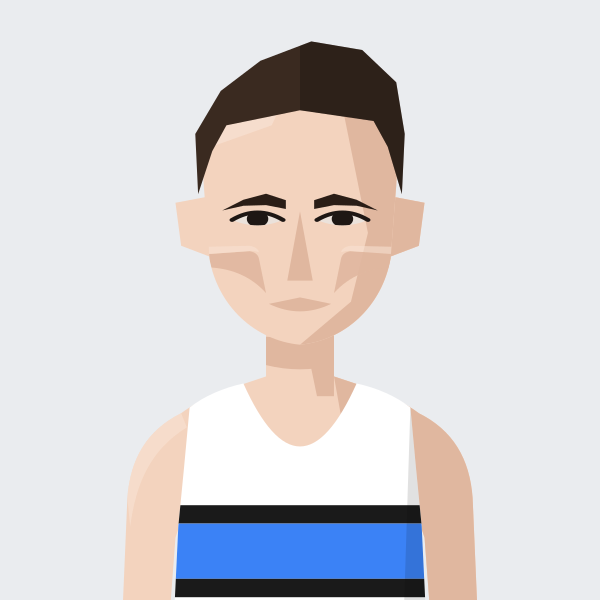
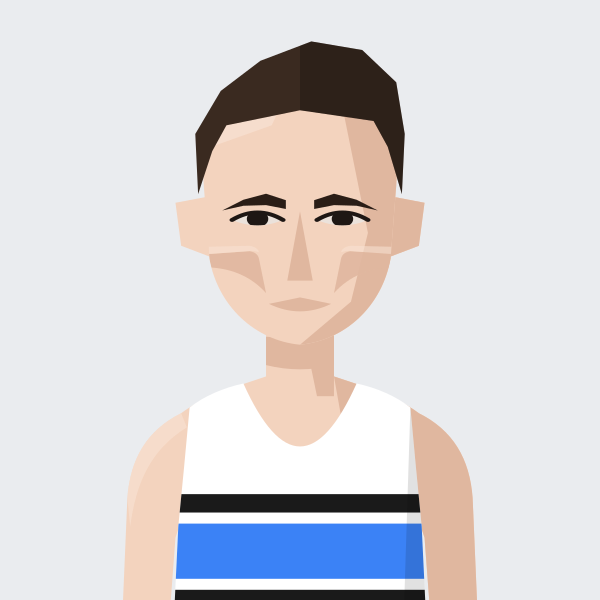
Surrey AC vest: white gaps between the three hoops; John Snowden arched brows
Claude-Session: https://claude.ai/code/session_01MgmDWhFqnSSnP4iBLKXUZC

Changed region(s): [[0.3, 0.81, 0.72, 0.9], [0.27, 0.96, 0.72, 1.0]]

diff --git a/files/index.html b/files/index.html
@@ -887,7 +887,7 @@ const portraitFile=(name,club)=>{const k=normalizeNameForCompare(name||'').repla
 const portraitClubOf=(name,clubs)=>{for(const c of clubs||[]){if(c&&portraitFile(name,c))return c;}return null;}; /* first of these clubs we have a portrait for */
 // Athlete header figure: superstar portrait if we have one, else a grey runner in the club vest, else the plain vest icon
 // Changes whenever any portrait changes (set by tools/build_og.py), so browsers fetch fresh images instead of old cached ones
-const PORTRAIT_V='8bcdb186';const PORTRAIT_WOMEN='abbey-brooke,abbie-bulbulian,adele-prince,aimee-hargreaves,aisling-ahern,alex-brown,alex-gandee,alex-marginean,alex-miller,alexa-parker,alexandra-barbour,alice-braham,alice-bridger-morales,alice-crane,alice-martin,alice-reed,alice-smith,alison-purnell,alison-thomson,amelia-pettitt,amy-clements,andrea-barber,anika-schwarze-chintapatla,anna-garnier,anna-garnier-hw,anna-sharp,annabel-hobday,annabelle-hadlow,anne-hegvold,annmarie-seymour,ava-mcandie,becky-briggs,bethan-goddard,bethanie-murray,bethany-brown,betsy-griffiths,billie-mcclosky,camilla-barden,caoimhe-nic-fhogartaigh,carolyne-baxter,catherine-bryson,catherine-eastham,catherine-kandie,cathy-ansell,charlotte-griffiths,chloe-beckett,chloe-tighe,chrissie-wellington,claire-grima,clara-pettit,clare-elms,clare-pauzers,dillan-quinn,dorchie-cockerell,eilidh-hide,elinor-skinner,eliza-grant,elizabeth-apsley,elizabeth-stavreski,ella-fennelly,ella-king-powrie,ella-may-hards,ella-newton,ellen-weir,ellie-brown,ellie-freeden,eloise-bull,emilie-arnoux,emily-barrett,emily-bradley,emily-lowery,emily-robbins,emma-bond,emma-gordon,emma-howsham,emma-lord,emma-rowland,estle-viljoen,evie-warren,felicity-cole,felicity-harrison,felicity-hayward,fi-maddocks,fiona-de-mauny,florence-wiggins,gabby-collison,gabriel-reynolds,gemma-newport,genevieve-blanch,georgia-curry,georgie-bruinvels,georgie-fenn,georgie-furze,georgie-grgec,gina-galbraith,grace-leyland,grace-richardson,hannah-edwards,hannah-english,heather-statham,heather-statham-cc,helen-alsop,helena-corbin,helena-keenan,holly-nixon,holly-pan,imogen-mackie,imogen-wolsey,iona-cousland,isabel-bradley,isabel-brinsden,isabel-hodder,isabelle-pickett,jennifer-nandi,jennifer-smith,jess-reed,jess-saunders,jess-winfield,jessica-davies,jessica-lowe,jodie-favell,jon-hobbs,josephine-rhodes,julia-bleasdale,julia-wedmore,juliet-hodder,juliette-clark,jurgita-levertaviciute,justine-lynch,karen-fenner,karen-xiang,karina-box,kate-axford,kate-williams,kathy-sharpe,katie-ellen-french,katie-good,katie-snowden,katy-hedgethorne,kitty-shepherd-cross,kristina-popadich,lara-bromilow,lara-mangan,laura-goodson,laura-miles,lauren-major,lea-adamson,lily-newton,lisa-bailey,lisa-thomas,lisa-thomas-hw,lizzie-goldie-scot,louise-cooper,lucy-jones,lucy-macalister,lucy-peters,lydia-blackmore,lydia-gallyer-barnett,maddie-mastrolonardo,maddy-whitman,maeve-kenny,margaret-coogan,martina-conner,mary-james,mary-setyabule,matilde-lomba,megan-gildea,mel-wilkins,mhairi-hall,mimi-corden-lloyd,molly-oconnor,molly-smith,monika-gajek,naomi-lenane,natalie-beadle,natalie-seymour,natasha-lodge,niamh-thompson,nicky-hayes,nicola-cartlidge,nicola-douglas,nikki-haines,nikki-sturzaker,nina-mills,olivia-papaioannou,olivia-stillman,orna-mcginley,pamela-mchutchon,patricia-walker,patrizia-gnoato,penny-oliver,rachel-brown,rebecca-barrow,rebekah-edgar,rosie-powell,ruby-carter,ruby-whyte-wilding,ruby-woolfe,sally-urquhart,sally-young,sally-young-slh,sam-whiting,samantha-munday,sarah-astin,sarah-dewhirst,sarah-grover,sarah-hanley,sarah-holt,sarah-murphy,sarah-palmer,sarah-palmer-ran,sarah-riceman,sarah-young,saron-haileselase,serena-carter,sophie-cowper,sophie-harris,sophie-hicks,sophie-tooley,stacey-ward,steph-hewitt,steph-mccall,steph-mccall-cc,steph-mccall-slh,steph-mitchell,suzanne-swaine,suze-spalding,suzie-harvey,suzy-whatmough,syreeta-stracey,teresa-murphy,tilly-heaton,tilly-heaton-bel,tish-jones,vic-cartwright,vicky-clarke,vicky-edwards,victoria-barthelmess,victoria-buck,vikki-filsell,zoe-doyle,zoe-macdonald,zuzana-nemeckova';const PORTRAIT_MEN='aaron-wilson,abdulla-elsadig,adam-leane,adrian-major,adrien-royer,alan-black,alan-mead,alex-brecker,alex-bruce-littlewood,alex-gutteridge,alex-harris,alex-howard,alex-janiaud,alex-lee,alex-lennon,alex-mills,alex-milne,alex-morales,alex-robinson,alex-yee,alexander-marks,amittai-ben-israel,andrew-cumine,andrew-green,andrew-penney,andrew-perfect,andrew-simms,andrew-warburton,andrius-jaksevicius,andy-coley-maud,andy-coley-maud-cc,andy-fyfe,andy-north,andy-paton,andy-weir,angus-butler,angus-lamb,anisse-ismaili,arlo-ludewick,arne-dumez,arthur-peel,ashley-goncalves,barnaby-day,barry-collins,barry-sawyer,ben-clarke,ben-coughlan,ben-harding,ben-hurley,ben-ireland,ben-millar,ben-paviour,ben-pearce,ben-racle,ben-revill,ben-reynolds,ben-scott,ben-toomer,benedict-whitby,benjamin-hilson,bernie-ford,bill-kerr,bill-weller,bill-weller-wal,bob-harrison,bob-holt,bob-lunnon,bob-rayman,bob-smith,bradley-courtney-pinn,brandon-dewar,brian-gorman,brian-wilder,caleb-hathaway,callum-stewart,cameron-dockerill,cameron-reilly,carl-delaney,charles-herrington,charlie-dabbs,charlie-dickinson,charlie-eastaugh,charlie-manning,charlie-pickett,charlie-rogers,charlie-sandison,charlie-walker,charlie-wyllie,che-compton,chris-busaileh,chris-busaileh-hhh,chris-greenwood,chris-keavey,chris-moss,chris-steer,chris-threadgold,chris-warren,christian-lee,christopher-parker,clive-gilby,clive-shippen,colin-high,colin-pearson,conall-mcnally,conall-whelan,craig-ruddy,dame-dibaba,dan-cliffe,dan-pettitt,daniel-shaw,daniel-wolff,darren-mead,dave-beard,dave-beaver,dave-clarke,dave-glassborow,dave-hill,dave-holt,dave-taylor,david-anderson,david-bowers,david-grima,david-north,david-ogden,david-symons,david-walsh,david-williams,deron-fagan,dick-piotrowski,dimos-evangelidis,dom-nolan,dominic-kiralyfi,don-anderson,don-faircloth,don-maclean,doug-maughan,duncan-rimmer,dylan-evans,dylan-mitchard,ed-brewer,ed-catmur,ed-gibson,ed-mallett,ed-prickett,eddie-herridge,eddie-jodrell,eddie-rolls,edward-chuck,eoin-brady,eoin-molloy,ethan-mccolgan,falilou-kebe,findlay-dyer,finn-johnson,fintan-pearce,frank-tickner,frank-ward,fred-paget,fred-slemeck,fred-stebbings,freddie-hessian,garret-lee,gary-ribbons,gary-ribbons-ee,gary-staines,gary-staines-bel,gavin-eccles,geoff-biscoe,geoff-jerwood,geoff-north,george-cotton,george-gathercole,george-jackson,george-loxton,george-mallett,george-ogden,gerry-adams,gerry-north,glen-keegan,gordon-pearce,graham-macky,grenville-tuck,harrison-hayman,harry-guttridge,hector-revill,henry-hart,henry-silverstein,hugo-hewitt,huw-lobb,ian-acreman,ian-crowe-wright,ian-ellwood,ian-harkness,indy-barnes,isaac-lutaya,isaac-parker,jack-brotchie,jack-dickson,jack-dormer,jack-hampshire,jack-harrison,jack-hobden,jack-kavanagh,jack-millar,jack-ramm,jack-woods,jacob-brockmann,jake-simmonds,james-bartram,james-blackwood,james-bowler,james-estall,james-ewing,james-fox,james-hancock,james-harvey,james-hoad,james-kelly,james-mcmullan,james-murray,james-nutt,james-preston,james-roberts,james-stockings,james-ward,james-wootton,jamie-crowe,jamie-parkinson,jared-martin,jean-paul-wright,jeff-cunningham,jeremy-dempsey,jermaine-mays,jerry-watson,jim-allchin,jim-rimmer,joachim-wolf,joe-english,joe-hartley,john-baker,john-bicourt,john-bromley,john-davies,john-dear,john-foss,john-foxall,john-gilbert,john-gladwin,john-hutchins,john-kendall,john-kimaiyo,john-lee,john-lethbridge,john-mather,john-moore,john-roberts,john-sanderson,john-snowden,john-stow,john-sullivan,john-thresher,jon-pepper,jon-pepper-slh,jon-phillips,jon-solly,jonathan-cocker,jonathan-collier,jonathan-cornish,jonathan-ratcliffe,jonathan-tipper,jonny-neville,jonny-scott,jordan-weaver,josh-mitchell,josh-snow,josh-trigwell,jules-gevers,junior-galley,justin-chaston,justin-reid,kassa-tadesse,keith-newton,ken-penney,ken-penney-cro,kevin-nash,kevin-quinn,kevin-sturman,kieran-barnes,kieran-white,knut-hegvold,knut-hegvold-bel,larry-ryan,lawrence-avery,lee-lintern,les-presland,les-presland-sur,lewis-lloyd,liam-burthem,lionel-mann,lloyd-kempson,luke-caldwell,mack-downie,malachi-byansi,marcello-bizio,marcelo-fortes,marco-mazzotta,mark-anderson,mark-miles,mark-sinclair,mark-tennyson,mark-waller,martin-dent,martin-duff,martin-lake,martin-lewington,martin-shore,mathew-speed,matt-chaston,matt-jones,matt-wood,matt-yates,matthew-edgar,matthew-houchell,matthew-thomas,matthew-varley,max-bloor,max-heyden,max-milarvie,max-nicholls,michael-baker,michael-mccarthy,mick-gowan,mick-woods,mike-beevor,mike-boyle,mike-cummings,mike-farmery,mike-fuller,mike-hayes,mike-kortenray,mike-nouch,mohammed-ismail,monty-hudson,morgan-roberts,nathan-visick,neil-chisholm,neil-phillips,neil-speaight,neil-wilson,nic-lukies,nick-acfield,nick-altmann,nick-bester,nick-bester-hhh,nick-buckle,nick-bundle,nick-goolab,nick-lightfoot,nick-morris,nick-torry,noah-fernandez,norman-stairs,oli-carrington,oliver-carrington,oliver-fox,oliver-reynolds,oliver-young,ollie-foote,ollie-garrod,olly-buck,owen-hind,paddy-roddy,pancho-panchev,paskar-owor,pat-newell,patrick-mcdougall,paul-calver,paul-cheetham,paul-evans,paul-freary,paul-magner,paul-pollock,paul-sanderson,paul-sanderson-wok,pete-carton,pete-gardner,peter-clarke,peter-giles,peter-giles-thh,peter-lighting,phil-carstairs,phil-sanders,phil-sesemann,phil-swinburn,phil-wicks,phil-woodford-smith,raj-paranandi,ralph-street,ranjit-bhatia,ray-foley,reece-edwards,rhys-boorman,rian-mccawley,richard-ashe,richard-giles,richard-henderson,richard-langley,richard-mcdowell,richard-ollington,richard-partridge,richard-sun,richard-ward,rob-armstrong,rob-kelly,rob-tuer,robert-elphick,robert-laing,robert-norville,robert-peacock,robert-sesemann,robin-boon,robin-hudson,roger-alsop,roger-alsop-bel,roger-hackney,ron-clark,ron-linstead,ronan-tanguy,rory-mcmahon,rory-orsborn,ross-braden,ross-christie,rowan-board,rowan-crichton,russell-dessaix-chin,ryan-hickey,ryan-mccallister,sam-bramwell,sam-charlton,sam-gebreselassie,sam-haughian,sam-peters,sam-sommerville,sam-tyas,samuel-dames,samuel-wilcock,sean-cordon,sebastian-anthony,simon-baines,simon-coombes,simon-coppard,simon-fairbrother,simon-holmes,simon-rayner,simon-rayner-hw,simon-wade,simon-wade-hhh,simon-waterhouse,simon-williams,simon-wurr,sonny-nicoll,spencer-barden,stephen-mcleod,stephen-sharp,steve-badgery,steve-badgery-mit,steve-gardner,steve-jones,steve-smythe,steve-smythe-hhh,stuart-beaney,stuart-major,stuart-major-thh,stuart-mccallum,stuart-paton,terry-booth,thomas-dugre,thomas-gandee,thomas-gardner,thomas-renshaw,tim-alexander,tim-eglen,tim-lawrence,tim-watson,toby-cooke,toby-fletcher,tom-austin,tom-cheetham,tom-conlon,tom-davies,tom-gifford,tom-higgs,tom-jervis,tom-lole,tom-south,tom-thornley,tommy-taylor,tony-binda,tony-fairclough,tony-harran,trevor-hart,valdis-pauzers,valentin-rigori,vic-maughan,wayne-oxborough,will-cockerell,will-lewis,will-marshall,will-scott,will-stockley,william-gardner,yacin-yusuf,zach-nolan';
+const PORTRAIT_V='8a8cc05c';const PORTRAIT_WOMEN='abbey-brooke,abbie-bulbulian,adele-prince,aimee-hargreaves,aisling-ahern,alex-brown,alex-gandee,alex-marginean,alex-miller,alexa-parker,alexandra-barbour,alice-braham,alice-bridger-morales,alice-crane,alice-martin,alice-reed,alice-smith,alison-purnell,alison-thomson,amelia-pettitt,amy-clements,andrea-barber,anika-schwarze-chintapatla,anna-garnier,anna-garnier-hw,anna-sharp,annabel-hobday,annabelle-hadlow,anne-hegvold,annmarie-seymour,ava-mcandie,becky-briggs,bethan-goddard,bethanie-murray,bethany-brown,betsy-griffiths,billie-mcclosky,camilla-barden,caoimhe-nic-fhogartaigh,carolyne-baxter,catherine-bryson,catherine-eastham,catherine-kandie,cathy-ansell,charlotte-griffiths,chloe-beckett,chloe-tighe,chrissie-wellington,claire-grima,clara-pettit,clare-elms,clare-pauzers,dillan-quinn,dorchie-cockerell,eilidh-hide,elinor-skinner,eliza-grant,elizabeth-apsley,elizabeth-stavreski,ella-fennelly,ella-king-powrie,ella-may-hards,ella-newton,ellen-weir,ellie-brown,ellie-freeden,eloise-bull,emilie-arnoux,emily-barrett,emily-bradley,emily-lowery,emily-robbins,emma-bond,emma-gordon,emma-howsham,emma-lord,emma-rowland,estle-viljoen,evie-warren,felicity-cole,felicity-harrison,felicity-hayward,fi-maddocks,fiona-de-mauny,florence-wiggins,gabby-collison,gabriel-reynolds,gemma-newport,genevieve-blanch,georgia-curry,georgie-bruinvels,georgie-fenn,georgie-furze,georgie-grgec,gina-galbraith,grace-leyland,grace-richardson,hannah-edwards,hannah-english,heather-statham,heather-statham-cc,helen-alsop,helena-corbin,helena-keenan,holly-nixon,holly-pan,imogen-mackie,imogen-wolsey,iona-cousland,isabel-bradley,isabel-brinsden,isabel-hodder,isabelle-pickett,jennifer-nandi,jennifer-smith,jess-reed,jess-saunders,jess-winfield,jessica-davies,jessica-lowe,jodie-favell,jon-hobbs,josephine-rhodes,julia-bleasdale,julia-wedmore,juliet-hodder,juliette-clark,jurgita-levertaviciute,justine-lynch,karen-fenner,karen-xiang,karina-box,kate-axford,kate-williams,kathy-sharpe,katie-ellen-french,katie-good,katie-snowden,katy-hedgethorne,kitty-shepherd-cross,kristina-popadich,lara-bromilow,lara-mangan,laura-goodson,laura-miles,lauren-major,lea-adamson,lily-newton,lisa-bailey,lisa-thomas,lisa-thomas-hw,lizzie-goldie-scot,louise-cooper,lucy-jones,lucy-macalister,lucy-peters,lydia-blackmore,lydia-gallyer-barnett,maddie-mastrolonardo,maddy-whitman,maeve-kenny,margaret-coogan,martina-conner,mary-james,mary-setyabule,matilde-lomba,megan-gildea,mel-wilkins,mhairi-hall,mimi-corden-lloyd,molly-oconnor,molly-smith,monika-gajek,naomi-lenane,natalie-beadle,natalie-seymour,natasha-lodge,niamh-thompson,nicky-hayes,nicola-cartlidge,nicola-douglas,nikki-haines,nikki-sturzaker,nina-mills,olivia-papaioannou,olivia-stillman,orna-mcginley,pamela-mchutchon,patricia-walker,patrizia-gnoato,penny-oliver,rachel-brown,rebecca-barrow,rebekah-edgar,rosie-powell,ruby-carter,ruby-whyte-wilding,ruby-woolfe,sally-urquhart,sally-young,sally-young-slh,sam-whiting,samantha-munday,sarah-astin,sarah-dewhirst,sarah-grover,sarah-hanley,sarah-holt,sarah-murphy,sarah-palmer,sarah-palmer-ran,sarah-riceman,sarah-young,saron-haileselase,serena-carter,sophie-cowper,sophie-harris,sophie-hicks,sophie-tooley,stacey-ward,steph-hewitt,steph-mccall,steph-mccall-cc,steph-mccall-slh,steph-mitchell,suzanne-swaine,suze-spalding,suzie-harvey,suzy-whatmough,syreeta-stracey,teresa-murphy,tilly-heaton,tilly-heaton-bel,tish-jones,vic-cartwright,vicky-clarke,vicky-edwards,victoria-barthelmess,victoria-buck,vikki-filsell,zoe-doyle,zoe-macdonald,zuzana-nemeckova';const PORTRAIT_MEN='aaron-wilson,abdulla-elsadig,adam-leane,adrian-major,adrien-royer,alan-black,alan-mead,alex-brecker,alex-bruce-littlewood,alex-gutteridge,alex-harris,alex-howard,alex-janiaud,alex-lee,alex-lennon,alex-mills,alex-milne,alex-morales,alex-robinson,alex-yee,alexander-marks,amittai-ben-israel,andrew-cumine,andrew-green,andrew-penney,andrew-perfect,andrew-simms,andrew-warburton,andrius-jaksevicius,andy-coley-maud,andy-coley-maud-cc,andy-fyfe,andy-north,andy-paton,andy-weir,angus-butler,angus-lamb,anisse-ismaili,arlo-ludewick,arne-dumez,arthur-peel,ashley-goncalves,barnaby-day,barry-collins,barry-sawyer,ben-clarke,ben-coughlan,ben-harding,ben-hurley,ben-ireland,ben-millar,ben-paviour,ben-pearce,ben-racle,ben-revill,ben-reynolds,ben-scott,ben-toomer,benedict-whitby,benjamin-hilson,bernie-ford,bill-kerr,bill-weller,bill-weller-wal,bob-harrison,bob-holt,bob-lunnon,bob-rayman,bob-smith,bradley-courtney-pinn,brandon-dewar,brian-gorman,brian-wilder,caleb-hathaway,callum-stewart,cameron-dockerill,cameron-reilly,carl-delaney,charles-herrington,charlie-dabbs,charlie-dickinson,charlie-eastaugh,charlie-manning,charlie-pickett,charlie-rogers,charlie-sandison,charlie-walker,charlie-wyllie,che-compton,chris-busaileh,chris-busaileh-hhh,chris-greenwood,chris-keavey,chris-moss,chris-steer,chris-threadgold,chris-warren,christian-lee,christopher-parker,clive-gilby,clive-shippen,colin-high,colin-pearson,conall-mcnally,conall-whelan,craig-ruddy,dame-dibaba,dan-cliffe,dan-pettitt,daniel-shaw,daniel-wolff,darren-mead,dave-beard,dave-beaver,dave-clarke,dave-glassborow,dave-hill,dave-holt,dave-taylor,david-anderson,david-bowers,david-grima,david-north,david-ogden,david-symons,david-walsh,david-williams,deron-fagan,dick-piotrowski,dimos-evangelidis,dom-nolan,dominic-kiralyfi,don-anderson,don-faircloth,don-maclean,doug-maughan,duncan-rimmer,dylan-evans,dylan-mitchard,ed-brewer,ed-catmur,ed-gibson,ed-mallett,ed-prickett,eddie-herridge,eddie-jodrell,eddie-rolls,edward-chuck,eoin-brady,eoin-molloy,ethan-mccolgan,falilou-kebe,findlay-dyer,finn-johnson,fintan-pearce,frank-tickner,frank-ward,fred-paget,fred-slemeck,fred-stebbings,freddie-hessian,garret-lee,gary-ribbons,gary-ribbons-ee,gary-staines,gary-staines-bel,gavin-eccles,geoff-biscoe,geoff-jerwood,geoff-north,george-cotton,george-gathercole,george-jackson,george-loxton,george-mallett,george-ogden,gerry-adams,gerry-north,glen-keegan,gordon-pearce,graham-macky,grenville-tuck,harrison-hayman,harry-guttridge,hector-revill,henry-hart,henry-silverstein,hugo-hewitt,huw-lobb,ian-acreman,ian-crowe-wright,ian-ellwood,ian-harkness,indy-barnes,isaac-lutaya,isaac-parker,jack-brotchie,jack-dickson,jack-dormer,jack-hampshire,jack-harrison,jack-hobden,jack-kavanagh,jack-millar,jack-ramm,jack-woods,jacob-brockmann,jake-simmonds,james-bartram,james-blackwood,james-bowler,james-estall,james-ewing,james-fox,james-hancock,james-harvey,james-hoad,james-kelly,james-mcmullan,james-murray,james-nutt,james-preston,james-roberts,james-stockings,james-ward,james-wootton,jamie-crowe,jamie-parkinson,jared-martin,jean-paul-wright,jeff-cunningham,jeremy-dempsey,jermaine-mays,jerry-watson,jim-allchin,jim-rimmer,joachim-wolf,joe-english,joe-hartley,john-baker,john-bicourt,john-bromley,john-davies,john-dear,john-foss,john-foxall,john-gilbert,john-gladwin,john-hutchins,john-kendall,john-kimaiyo,john-lee,john-lethbridge,john-mather,john-moore,john-roberts,john-sanderson,john-snowden,john-stow,john-sullivan,john-thresher,jon-pepper,jon-pepper-slh,jon-phillips,jon-solly,jonathan-cocker,jonathan-collier,jonathan-cornish,jonathan-ratcliffe,jonathan-tipper,jonny-neville,jonny-scott,jordan-weaver,josh-mitchell,josh-snow,josh-trigwell,jules-gevers,junior-galley,justin-chaston,justin-reid,kassa-tadesse,keith-newton,ken-penney,ken-penney-cro,kevin-nash,kevin-quinn,kevin-sturman,kieran-barnes,kieran-white,knut-hegvold,knut-hegvold-bel,larry-ryan,lawrence-avery,lee-lintern,les-presland,les-presland-sur,lewis-lloyd,liam-burthem,lionel-mann,lloyd-kempson,luke-caldwell,mack-downie,malachi-byansi,marcello-bizio,marcelo-fortes,marco-mazzotta,mark-anderson,mark-miles,mark-sinclair,mark-tennyson,mark-waller,martin-dent,martin-duff,martin-lake,martin-lewington,martin-shore,mathew-speed,matt-chaston,matt-jones,matt-wood,matt-yates,matthew-edgar,matthew-houchell,matthew-thomas,matthew-varley,max-bloor,max-heyden,max-milarvie,max-nicholls,michael-baker,michael-mccarthy,mick-gowan,mick-woods,mike-beevor,mike-boyle,mike-cummings,mike-farmery,mike-fuller,mike-hayes,mike-kortenray,mike-nouch,mohammed-ismail,monty-hudson,morgan-roberts,nathan-visick,neil-chisholm,neil-phillips,neil-speaight,neil-wilson,nic-lukies,nick-acfield,nick-altmann,nick-bester,nick-bester-hhh,nick-buckle,nick-bundle,nick-goolab,nick-lightfoot,nick-morris,nick-torry,noah-fernandez,norman-stairs,oli-carrington,oliver-carrington,oliver-fox,oliver-reynolds,oliver-young,ollie-foote,ollie-garrod,olly-buck,owen-hind,paddy-roddy,pancho-panchev,paskar-owor,pat-newell,patrick-mcdougall,paul-calver,paul-cheetham,paul-evans,paul-freary,paul-magner,paul-pollock,paul-sanderson,paul-sanderson-wok,pete-carton,pete-gardner,peter-clarke,peter-giles,peter-giles-thh,peter-lighting,phil-carstairs,phil-sanders,phil-sesemann,phil-swinburn,phil-wicks,phil-woodford-smith,raj-paranandi,ralph-street,ranjit-bhatia,ray-foley,reece-edwards,rhys-boorman,rian-mccawley,richard-ashe,richard-giles,richard-henderson,richard-langley,richard-mcdowell,richard-ollington,richard-partridge,richard-sun,richard-ward,rob-armstrong,rob-kelly,rob-tuer,robert-elphick,robert-laing,robert-norville,robert-peacock,robert-sesemann,robin-boon,robin-hudson,roger-alsop,roger-alsop-bel,roger-hackney,ron-clark,ron-linstead,ronan-tanguy,rory-mcmahon,rory-orsborn,ross-braden,ross-christie,rowan-board,rowan-crichton,russell-dessaix-chin,ryan-hickey,ryan-mccallister,sam-bramwell,sam-charlton,sam-gebreselassie,sam-haughian,sam-peters,sam-sommerville,sam-tyas,samuel-dames,samuel-wilcock,sean-cordon,sebastian-anthony,simon-baines,simon-coombes,simon-coppard,simon-fairbrother,simon-holmes,simon-rayner,simon-rayner-hw,simon-wade,simon-wade-hhh,simon-waterhouse,simon-williams,simon-wurr,sonny-nicoll,spencer-barden,stephen-mcleod,stephen-sharp,steve-badgery,steve-badgery-mit,steve-gardner,steve-jones,steve-smythe,steve-smythe-hhh,stuart-beaney,stuart-major,stuart-major-thh,stuart-mccallum,stuart-paton,terry-booth,thomas-dugre,thomas-gandee,thomas-gardner,thomas-renshaw,tim-alexander,tim-eglen,tim-lawrence,tim-watson,toby-cooke,toby-fletcher,tom-austin,tom-cheetham,tom-conlon,tom-davies,tom-gifford,tom-higgs,tom-jervis,tom-lole,tom-south,tom-thornley,tommy-taylor,tony-binda,tony-fairclough,tony-harran,trevor-hart,valdis-pauzers,valentin-rigori,vic-maughan,wayne-oxborough,will-cockerell,will-lewis,will-marshall,will-scott,will-stockley,william-gardner,yacin-yusuf,zach-nolan';
 // Runners whose dog pops up on their own profile page (a -dog.svg version of their portrait)
 const PROFILE_DOGS=new Set(['john-sanderson','penny-oliver','james-hancock','angus-butler']);
 const AthletePortrait=({name,club,w,fill,onClick,blink})=>{const[failed,setFailed]=useState(false);const file=portraitFile(name,club);const src0=file?`/portraits/athletes/${file}.svg?v=${PORTRAIT_V}`:PORTRAIT_CLUBS.has(club)?`/portraits/clubs/${club.replace(/\//g,'').replace(/&/g,'and')}.svg?v=${PORTRAIT_V}`:null;const blinkSrc=useBlinkSrc(file?(PROFILE_DOGS.has(file)?`/portraits/athletes/${file}-dog.svg?v=${PORTRAIT_V}`:src0):null,!!blink);const src=blinkSrc||src0;if(!src||failed)return<div onClick={onClick} className={onClick?'cursor-pointer':''}><ClubShield club={club} size={w}/></div>;const h=Math.round(w*148/126),ih=Math.round(w*1.4);if(fill)return<div onClick={onClick} className="cursor-pointer" style={{alignSelf:'stretch',minHeight:h,aspectRatio:'126 / 148',flexShrink:0,position:'relative',borderRadius:4,overflow:'hidden'}}><img src={src} alt={file?`Portrait of ${name.replace(/\s*\([^)]*\)$/,'')}`:`Runner in ${CLUBS[club]?.name||club} vest`} style={{position:'absolute',top:0,left:0,display:'block',width:'100%',height:'auto'}} onError={()=>setFailed(true)}/></div>;return<div style={{width:w,height:h,borderRadius:4,overflow:'hidden',flexShrink:0}}><img src={src} alt={file?`Portrait of ${name.replace(/\s*\([^)]*\)$/,'')}`:`Runner in ${CLUBS[club]?.name||club} vest`} width={w} height={ih} style={{display:'block',width:w,height:ih}} onError={()=>setFailed(true)}/></div>;};

diff --git a/tools/gen_portraits.py b/tools/gen_portraits.py
@@ -48,7 +48,7 @@ _MORE = {
     "BOX": ("#f4c430", _sides("#dc2626")),
     "BOH": ("#87CEEB", _sides("#dc2626")),
     "AFD": ("#dc2626", '<rect x="14" y="0" width="3" height="20" fill="#fff"/><rect x="0" y="6" width="20" height="3" fill="#228b22"/>'),
-    "SUR": ("#ffffff", '<rect x="0" y="7" width="20" height="1" fill="#1a1a1a"/><rect x="0" y="8" width="20" height="3" fill="#3b82f6"/><rect x="0" y="11" width="20" height="1" fill="#1a1a1a"/>'),
+    "SUR": ("#ffffff", '<rect x="0" y="6.4" width="20" height="1" fill="#1a1a1a"/><rect x="0" y="8" width="20" height="3" fill="#3b82f6"/><rect x="0" y="11.6" width="20" height="1" fill="#1a1a1a"/>'),  # Surrey AC: three hoops with white gaps between (Oct 2026)
     "MIT": ("#2563eb", '<rect x="0" y="6.6" width="20" height="0.8" fill="#fff"/><rect x="0" y="8" width="20" height="3" fill="#fff"/><rect x="0" y="11.6" width="20" height="0.8" fill="#fff"/>'),  # Mitcham: thin outer stripes tight to the main white hoop (Oct 2026)
     "DMV": ("#C42F6A", '<rect x="3" y="8" width="1" height="12" fill="#BCD3EC"/><rect x="4" y="8" width="1" height="12" fill="#fff"/><rect x="16" y="8" width="1" height="12" fill="#BCD3EC"/><rect x="15" y="8" width="1" height="12" fill="#fff"/>'),  # cerise, with equal pale-blue and white side panels from below the armpit (Oct 2026, Luke Caldwell photo)
     "W4H": ("#f4c430", '<rect x="0" y="8" width="20" height="4" fill="#00CED1"/>'),
